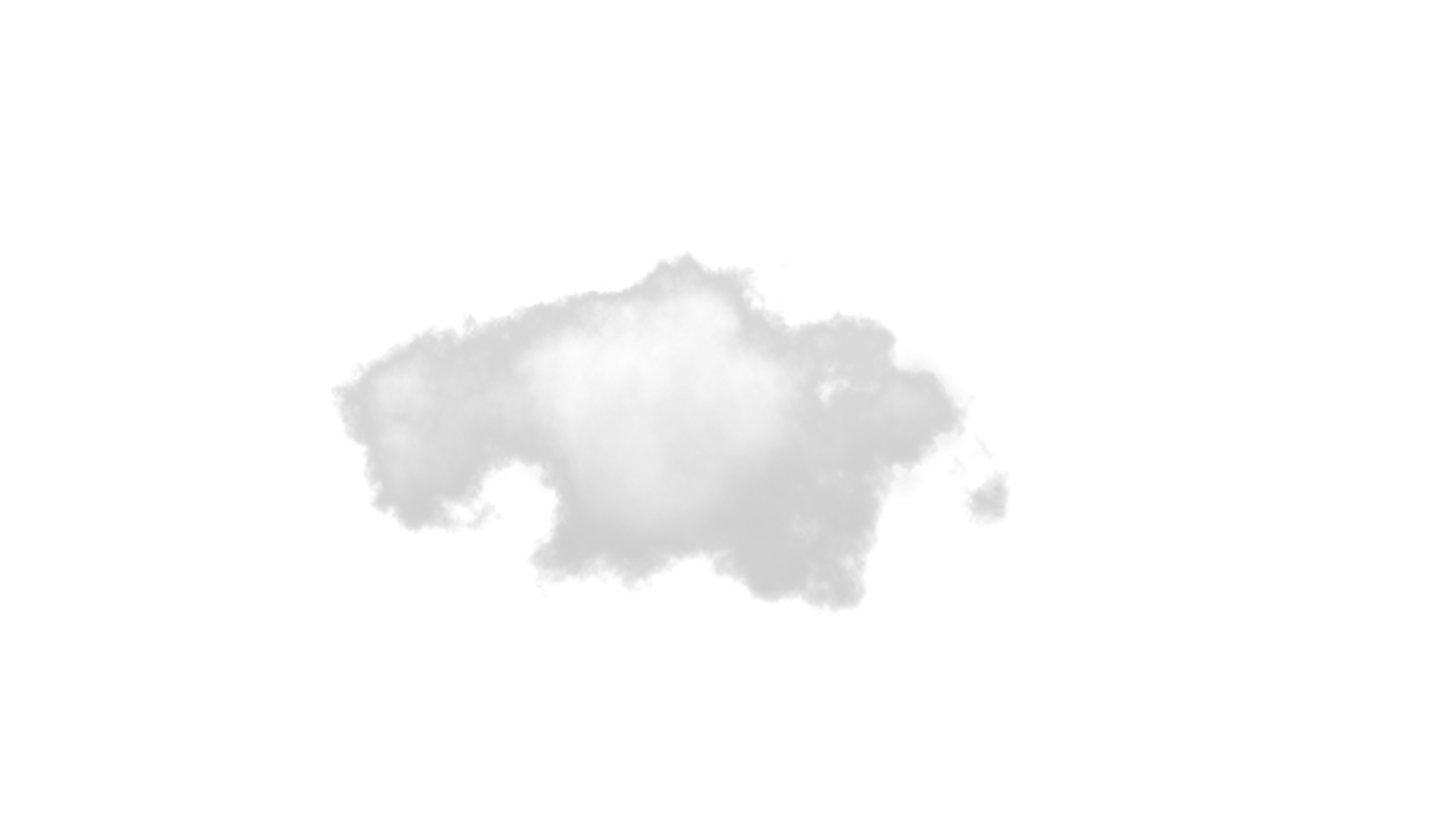
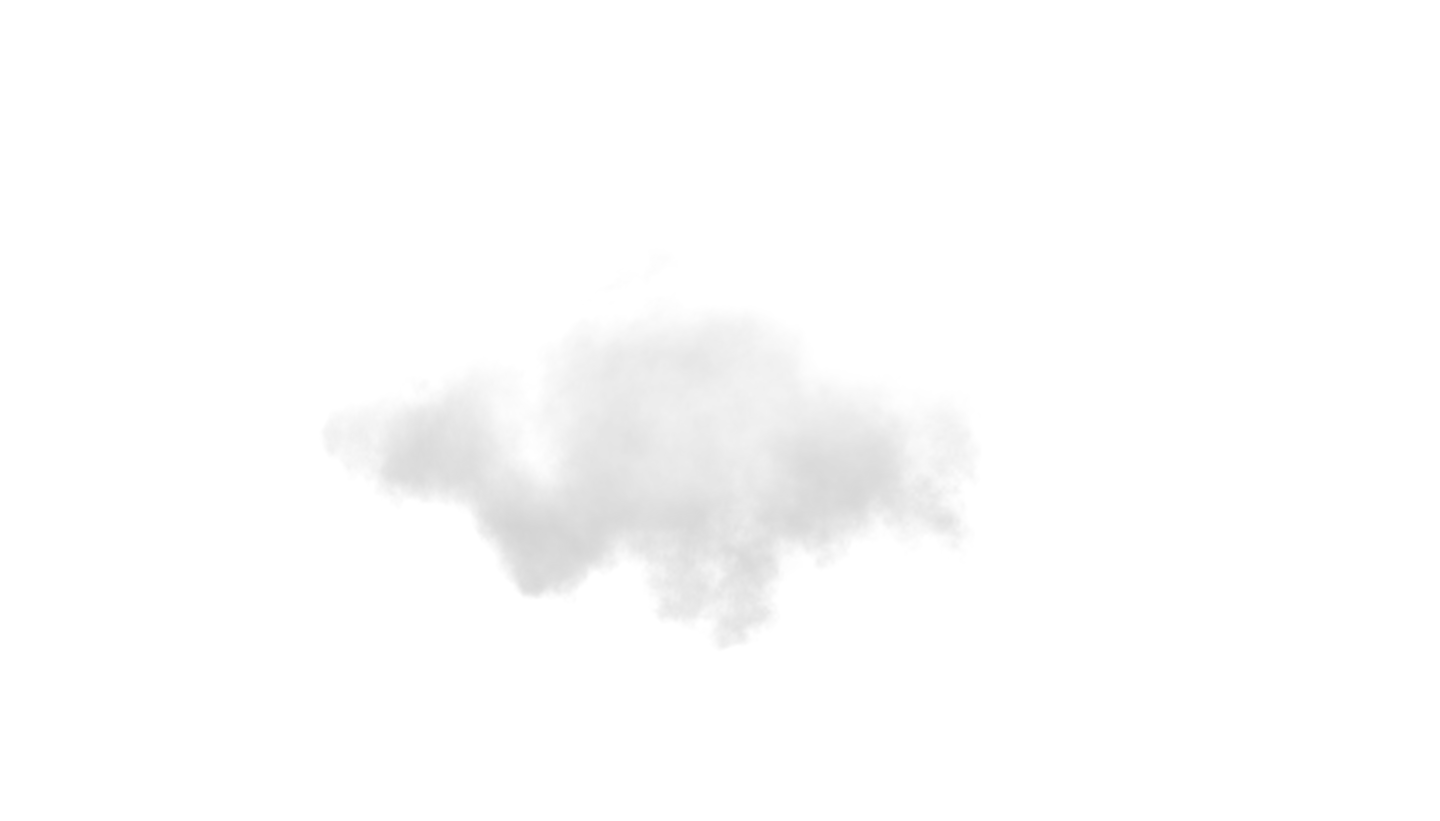
Added better alpha blending; still not happy with the brightness

Changed region(s): [[0.2188, 0.3045, 0.6875, 0.7613], [0.6562, 0.5786, 0.7188, 0.6395]]

diff --git a/index.html b/index.html
@@ -40,7 +40,7 @@
     const camera = viewer.scene.camera;
     var entities = viewer.entities;
     viewer.scene.moon = undefined;
-    viewer.scene.skyAtmosphere.brightnessShift = 0.6;
+    viewer.scene.skyAtmosphere.brightnessShift = 0.4;
     let prevCameraPos = new Cesium.Cartesian3();
     camera.position.clone(prevCameraPos);
 
@@ -67,7 +67,7 @@
 
       // Generate some random positions to place clouds around the camera position
       const size = 1; // 1.1132 km. Size of the square area (in degrees) that the clouds will be generated in (1 degrees = 111.32 km)
-      const step = 0.4;
+      const step = 0.2;
       const maxCloudAltitude = 3e3;
       const minCloudAltitude = 2e3;
       for (let i = -size / 2; i < size / 2 + step; i += step) {
@@ -203,7 +203,7 @@
       const cameraPosLat = cameraPos.latitude * 180 / Math.PI;
       const cameraPosLon = cameraPos.longitude * 180 / Math.PI;
       // Generate some random positions to place clouds around the camera position
-      const size = 1; // 1.1132 km. Size of the square area (in degrees) that the clouds will be generated in (1 degrees = 111.32 km)
+      const size = 2; // 1.1132 km. Size of the square area (in degrees) that the clouds will be generated in (1 degrees = 111.32 km)
       const step = 0.3;
       const maxCloudAltitude = 9e3;
       const minCloudAltitude = 8e3;
@@ -225,7 +225,7 @@
             name: 'Altostratus Clouds',
             position: position,
             model: {
-              uri: './assets/flat1/flat1.gltf',
+              uri: `./assets/flat${Math.floor(Math.random() * 2) + 1}/flat1.gltf`,
               minimumPixelSize: 128,
               scale: 50000,
             },
@@ -428,7 +428,7 @@
     // });
     
     // Adding layers
-    resetView('Bali');
+    resetView('SF');
     resetClouds();
 
   </script>
